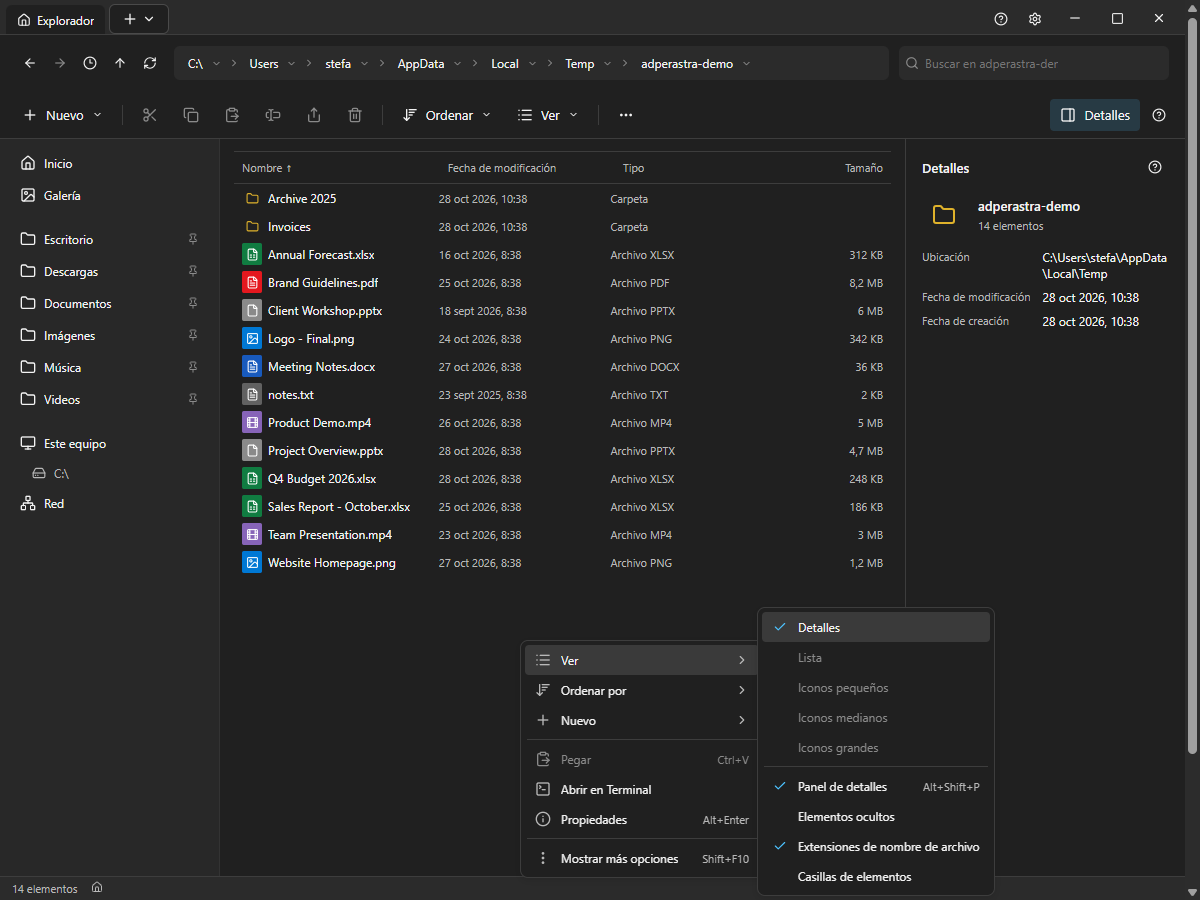
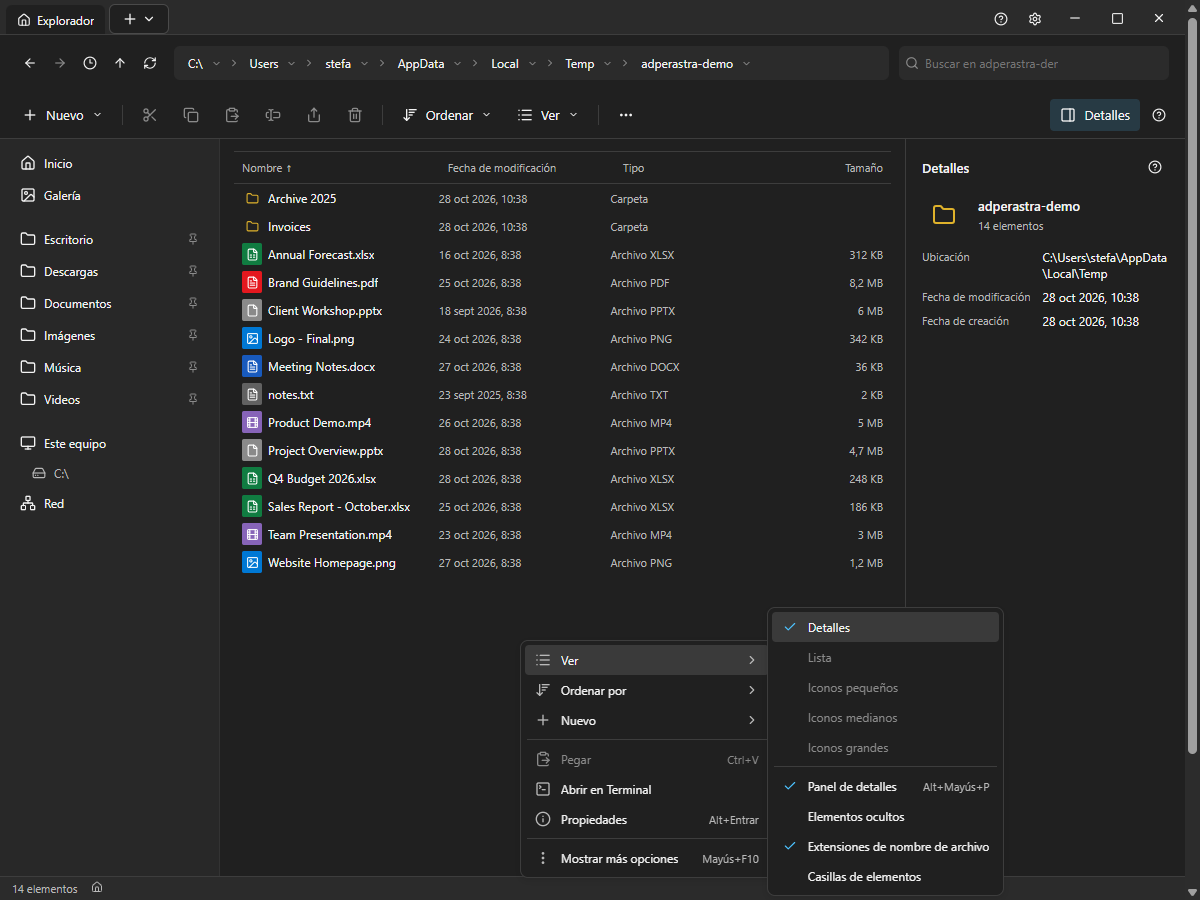
docs(reports): step-03a numbers, screenshots and review results after the fixes [step-03a]
Re-measured in the release build (all interactions 4-26 ms; the Details pane fills in 8 ms) and retook the screenshots (Spanish menus now show translated key names). The report lists the plan review's findings and their fixes.

diff --git a/docs/step-reports/step-03a.md b/docs/step-reports/step-03a.md
@@ -59,19 +59,20 @@ Packaged release build, measured inside the page from the action to the next pai
 
 | Interaction | Tier | Measured (median) | Result |
 |---|---|---|---|
-| Select an item (click) | Instant 0.1 s | 14 ms | Pass |
+| Select an item (click) | Instant 0.1 s | 8 ms | Pass |
 | Add an item (Ctrl+click) | Instant 0.1 s | 7 ms | Pass |
-| Type-ahead jump | Instant 0.1 s | 12 ms | Pass |
-| Right-click menu on a file | Instant 0.1 s | 9 ms | Pass |
-| Right-click menu on empty space | Instant 0.1 s | 15 ms | Pass |
-| Command bar View menu | Instant 0.1 s | 8 ms | Pass |
-| Rename box (F2) | Instant 0.1 s | 9 ms | Pass |
-| Details pane hide/show | Instant 0.1 s | 9 ms | Pass |
-| 100k folder: select an item | Instant 0.1 s | 8 ms | Pass |
-| 100k folder: arrow key move | Instant 0.1 s | 14 ms | Pass |
-| 100k folder: select all (Ctrl+A) | Instant 0.1 s | 30 ms | Pass |
-| 100k folder: right-click with all selected | Instant 0.1 s | 10 ms | Pass |
-| 100k folder: Shift+click range | Instant 0.1 s | 16 ms | Pass |
+| Type-ahead jump | Instant 0.1 s | 9 ms | Pass |
+| Right-click menu on a file | Instant 0.1 s | 7 ms | Pass |
+| Right-click menu on empty space | Instant 0.1 s | 7 ms | Pass |
+| Command bar View menu | Instant 0.1 s | 4 ms | Pass |
+| Rename box (F2) | Instant 0.1 s | 6 ms | Pass |
+| Details pane filled in (dates and attributes from Windows) | Instant 0.1 s | 8 ms | Pass |
+| Details pane hide/show | Instant 0.1 s | 7 ms | Pass |
+| 100k folder: select an item | Instant 0.1 s | 6 ms | Pass |
+| 100k folder: arrow key move | Instant 0.1 s | 11 ms | Pass |
+| 100k folder: select all (Ctrl+A) | Instant 0.1 s | 26 ms | Pass |
+| 100k folder: right-click with all selected | Instant 0.1 s | 8 ms | Pass |
+| 100k folder: Shift+click range | Instant 0.1 s | 13 ms | Pass |
 | Show more options (classic menu on screen) | Waiting with feedback 1-10 s | 0.55-0.74 s warm, 2.1 s first time | Pass (note after 0.3 s, timeout 5 s) |
 | App start, cold WebView2 (first paint / ready) | Fast 1 s | 83-99 ms / 702-870 ms, median 779 ms (5 runs; the `v0.0.4-step02` build: median 841 ms) | Pass, no slowdown vs Step 02 (KI-017 closed) |
 | First start of a freshly built exe | one-time | 0.7-2.1 s paint / 1.3-3.4 s ready | Known one-time cost (KI-002) |
@@ -80,8 +81,17 @@ Our own menus never touch shell extensions, so they stay instant however slow an
 
 ## Verification
 
-- `cargo test --workspace`: 70 pass (app 28 incl. classic-menu helper timeout/ready/crash and request checks; fs-service 26 incl. 10 new for rename, details and favorites); `cargo clippy --workspace --all-targets` and `cargo fmt --check` clean.
-- `npm test`: 46/46 (selection, names, grouping, commands and menus, FileList keys/type-ahead/rename/groups, help pages in both languages); `tsc` clean; `npm run lint:i18n` passes (263 keys); `npm audit`: 0 vulnerabilities; release build passes.
+- `cargo test --workspace`: 73 pass (app 29 incl. classic-menu helper timeout/ready/crash, request checks and absolute-path checks; fs-service 28 incl. 12 new for rename, details and favorites); `cargo clippy --workspace --all-targets` and `cargo fmt --check` clean.
+- `npm test`: 48/48 (selection, names, grouping, commands and menus, FileList keys/type-ahead/rename/groups, system-item rename warning, translated shortcut names, help pages in both languages); `tsc` clean; `npm run lint:i18n` passes (276 keys); `npm audit`: 0 vulnerabilities; release build passes.
+- Full local suite on `testing` (the checks above plus the release build): passed before the review and again after the review fixes.
+- Plan review (read-only): found one Blocker and ten should-fix items, all fixed on the step branch and re-checked:
+  - Blocker: right-click on empty space in an empty folder showed the webview's own menu, whose Refresh reloaded the app. Now the app's menu opens anywhere in a folder view and the webview menu is off app-wide (except in text boxes and help text). Verified in the packaged app.
+  - Sorting kept the selection only by luck; it now re-sorts in place.
+  - Favorites are stored as shown, follow renames, and always stay listed (network ones aren't checked, so an absent server can't stall Home).
+  - The Favorites tab shows skeleton rows while loading; the Details pane no longer keeps a skeleton forever when Windows can't answer.
+  - Shortcut key names are translated; hidden commands stay out of the bar; dropdowns have tooltips; placeholder icons say they come later.
+  - New commands take only absolute paths without `..`; renaming a system item warns first.
+  - THIRD_PARTY_LICENSES.md lists the windows crates; Show more options refuses a selection from several folders; opening more than 15 files says so.
 - Packaged app driven through the WebView2 debugging port (`scripts/measure-ui.ps1`): speed table above and the screenshots below. Fixed from that run: Ctrl+A selected the page's text, the Details pane's folder icon was invisible, the rename message was covered by the next row, and Home columns overflowed.
 - Startup: the `v0.0.4-step02` tag was built and measured next to Step 03a with `scripts/measure-startup.ps1` (which now takes `-Exe`, `-Step` and `-Runs`); Step 03a is not slower (KI-017 closed).
 
